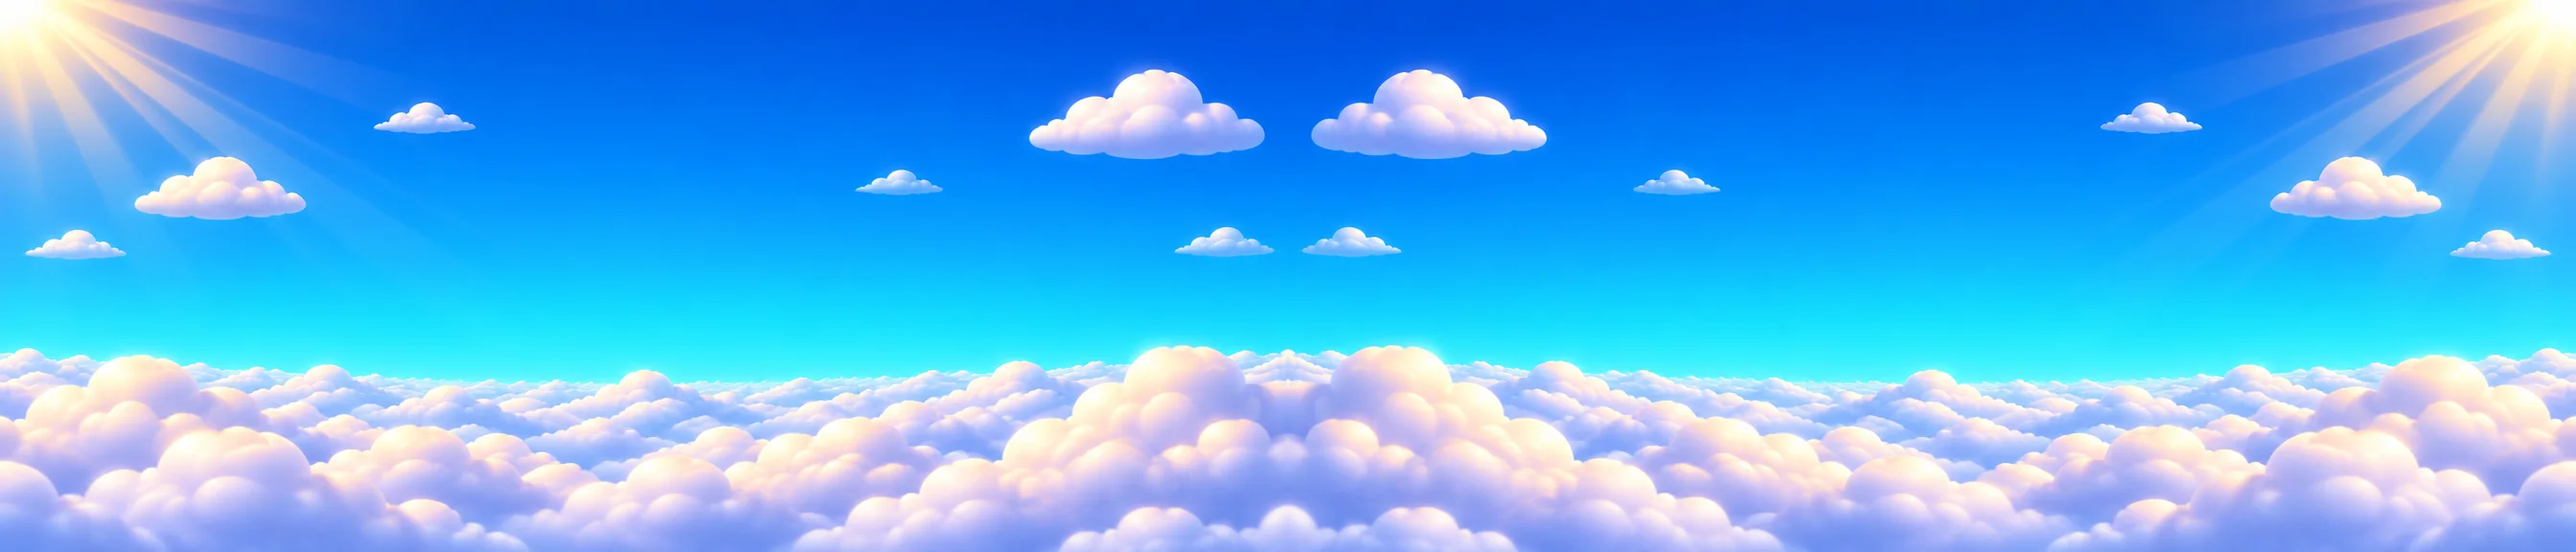
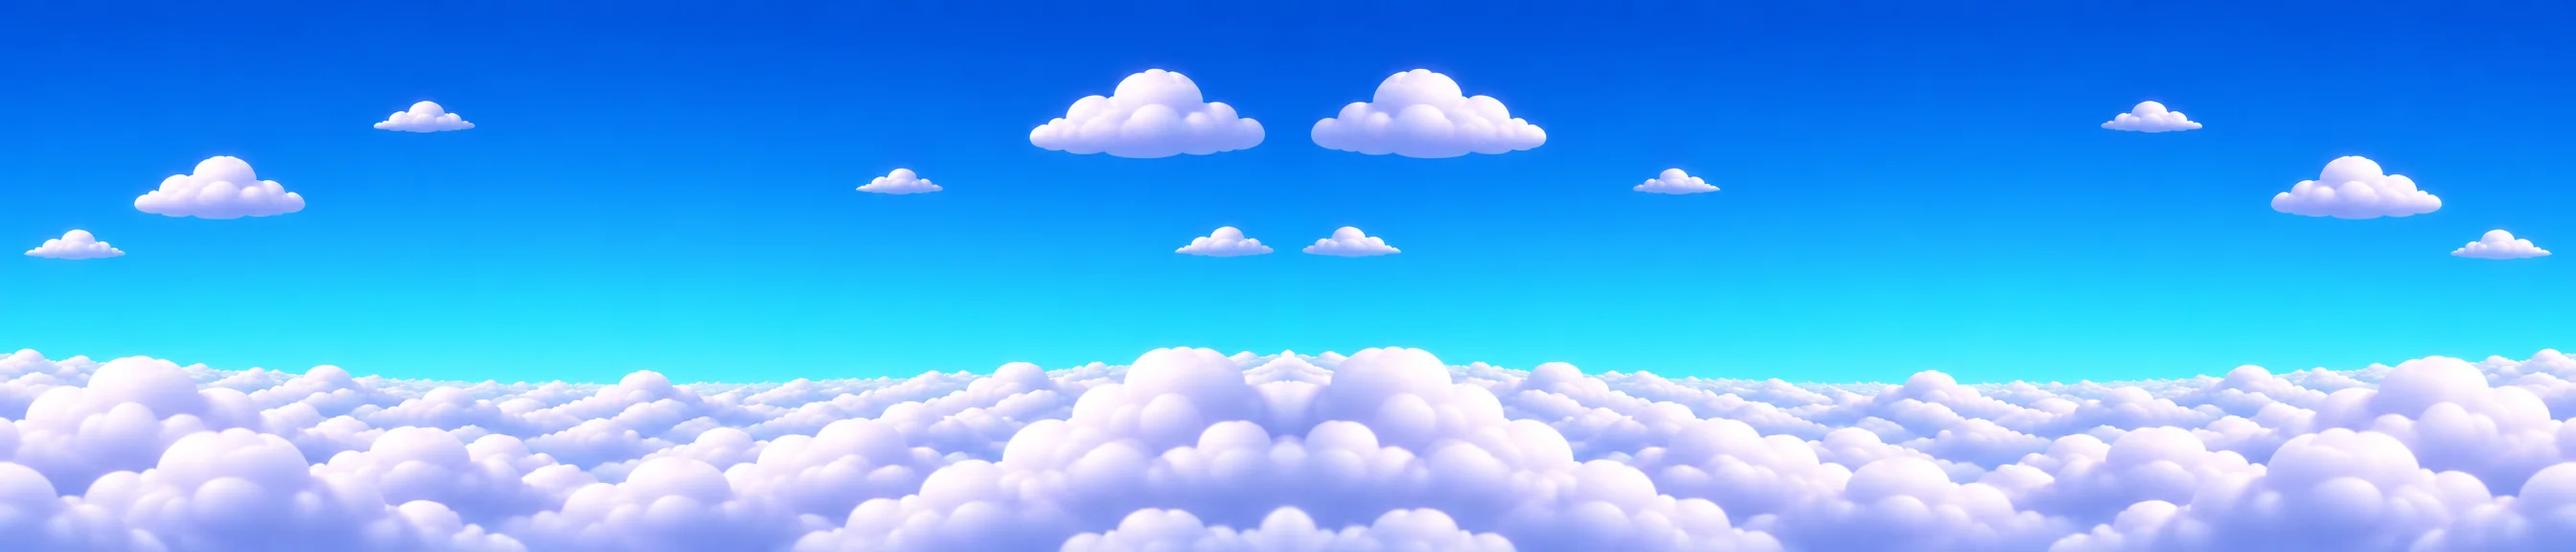
카피공항 예시판: 간판 글씨 가운데, 실내 밖으로 판넬 제거, 탑승권 구매 확인, 4초 끊김 없는 활주·부드러운 이륙, 햇빛 없는 하늘·끊김 없는 구름
Claude-Session: https://claude.ai/code/session_015t7mweLLBzEFYGgsGmysr6

diff --git a/js/airport.js b/js/airport.js
@@ -48,7 +48,7 @@ export function openAirport(o) {
   const walker = h('img', { class: 'ap-crew in wk', src: 'img/air/att-walk.webp', alt: '카피승무원' }), wk = { x: W * 0.8, y: 0.3, tx: W * 0.5, ty: 0.5, d: -1, wait: 0 }; // 캐리어를 끌고 대기장을 오가는 승무원
   const cntT = h('b', { class: 'ap-cnt-t', style: { fontSize: Math.round(H * 0.052) + 'px' } }, '카운터');
   const outBtn = h('button', { class: 'fm-exit ap-out', style: { left: W * 0.338 + 'px' }, onClick: () => goOut() }, '← 밖으로');
-  const inWorld = h('div', { class: 'fm-world ap-world in', hidden: true, style: { width: W + 'px', height: H + 'px', backgroundImage: 'url(img/air/in.webp)' } }, h('div', { class: 'ap-window' }, inPlane, h('img', { class: 'ap-mull', src: 'img/air/mullion.webp', alt: '' })), boardEl, counter, inAtt, h('img', { class: 'ap-desk', src: 'img/air/desk.webp?v=3', alt: '' }), inPilot, walker, cntT, outBtn);
+  const inWorld = h('div', { class: 'fm-world ap-world in', hidden: true, style: { width: W + 'px', height: H + 'px', backgroundImage: 'url(img/air/in.webp)' } }, h('div', { class: 'ap-window' }, inPlane, h('img', { class: 'ap-mull', src: 'img/air/mullion.webp', alt: '' })), boardEl, counter, inAtt, h('img', { class: 'ap-desk', src: 'img/air/desk.webp?v=3', alt: '' }), inPilot, walker, cntT);
   const scroller = h('div', { class: 'fm-scroll' }, outWorld, inWorld);
   const keys = new Set(), padBtn = (k, t) => { const b = h('button', { class: 'dp fm-dp' + (k === 'U' || k === 'D' ? ' ap-v' : ''), 'aria-label': { L: '왼쪽', R: '오른쪽', U: '위', D: '아래' }[k] }, t); holdBtn(b, () => keys.add(k), () => keys.delete(k)); return b; };
   const enterBtn = h('button', { class: 'fm-enter', hidden: true, onClick: () => (!inside ? goIn() : atGate() ? board() : openTicket()) });
@@ -75,13 +75,15 @@ export function openAirport(o) {
   const atGate = () => inside && me.x > W * 0.27 && me.x < W * 0.56; // 카운터 옆 출입구 앞
   function fitCrew() { const hh = 84; inPilot.style.height = hh + 'px'; walker.style.height = Math.round(hh * 1.22) + 'px'; inAtt.style.height = hh + 'px'; inAtt.style.bottom = Math.round(0.417 * H - 0.5 * hh) + 'px'; } // 카피바라(밍땅꾸리·두두)와 같은 키 + 모자. 카운터 승무원은 허리까지 책상 뒤에 · 기장은 조금 안쪽(작게)
   function openTicket() { const f = flightNow(now(), F), dep = depAt(now());
-    const row = (k, name, desc) => h('button', { class: 'ap-tk', onClick: () => buy(k, name) }, h('b', null, `🎫 ${DEST} ${name}`), h('small', null, desc), h('em', null, `${TICKET[k].toLocaleString()}코인`));
+    const row = (k, name, desc) => h('button', { class: 'ap-tk', onClick: () => confirmBuy(k, name) }, h('b', null, `🎫 ${DEST} ${name}`), h('small', null, desc), h('em', null, `${TICKET[k].toLocaleString()}코인`));
     modal({ title: `🎫 ${DEST} 탑승권`, body: [h('div', { class: 'ap-cnt' }, h('img', { src: 'img/air/att.webp', alt: '' }),
       h('p', null, `어서 오세요, 카피공항입니다! ✈`, h('br'), `${DEST}행 카피 오픈카 비행기는 10분마다 한 대씩 떠나요.`),
       h('p', { class: 'ap-cnt-s' }, canBoard(f) ? `지금 탑승할 수 있어요 · ${mmss(f.left)} 뒤 마감` : `다음 비행기 ${hhmm(dep)} 출발 · 출입구 앞에 선 뒤 10초 안에 타야 해요`),
       demo && h('p', { class: 'ap-cnt-n' }, '🧪 예시판이라 코인은 빠지지 않아요'),
       row('one', '편도', '가는 비행기 한 번'), row('round', '왕복', '갔다가 돌아오는 비행기 · 더 싸요'),
       h('p', { class: 'ap-cnt-n' }, `가진 탑승권: 편도 ${tk.one}장 · 왕복 ${tk.round}장`))], actions: [{ label: '닫기' }] }); }
+  function confirmBuy(k, name) { document.querySelectorAll('.modal-wrap').forEach(m => m.remove());
+    modal({ title: '🎫 구매 확인', body: [h('div', { class: 'ap-cnt' }, h('p', null, h('b', null, `${DEST} ${name} 탑승권`), h('br'), `${TICKET[k].toLocaleString()}코인에 살까요?`), demo && h('p', { class: 'ap-cnt-n' }, '🧪 예시판이라 코인은 빠지지 않아요'))], actions: [{ label: '취소' }, { label: '구매', primary: true, onClick: () => buy(k, name) }] }); }
   async function buy(k, name) { const cost = TICKET[k]; document.querySelectorAll('.modal-wrap').forEach(m => m.remove());
     if (!demo) { if (!(await ctx.spend(cost))) return; await ctx.store.update(TK, { [k]: (tk[k] || 0) + 1 }).catch(() => {}); } else tk = { ...tk, [k]: (tk[k] || 0) + 1 };
     sfx('coin'); toast(`🎫 ${DEST} ${name} 탑승권을 샀어요!${demo ? ' (예시판)' : ''}`, 1800); }
@@ -104,7 +106,7 @@ export function openAirport(o) {
   function ride() { const cap = h('div', { class: 'ap-ride-me', html: capy(ctx.capyOf(ctx.uid, { face: 'happy' })) });
     const rig = h('div', { class: 'ap-ride-rig' }, h('img', { class: 'ap-ride-pl', src: 'img/air/plane.webp?v=3', alt: '' }), cap, h('img', { class: 'ap-ride-hull', src: 'img/air/plane-hull.webp?v=3', alt: '' }));
     const msg = h('b'), sub = h('small'), offBtn = h('button', { class: 'btn sm', onClick: () => end() }, demo ? '내리기 (예시판)' : '내리기'), box = h('div', { class: 'ap-ride-t' }, msg, sub, demo && offBtn);
-    const sky = h('div', { class: 'ap-sky', hidden: true }, h('i', { class: 'ap-sky-bg' }), ...Array.from({ length: 7 }, (_, i) => h('img', { class: 'ap-cloud', src: `img/air/cloud${i % 3 + 1}.webp?v=2`, alt: '', style: { top: 4 + i * 13 + (i % 2) * 4 + '%', width: 26 + (i * 17) % 30 + '%', animationDuration: 1.0 + (i * 0.41) % 1.3 + 's', animationDelay: -(i * 0.47) + 's', opacity: 0.7 + (i % 3) * 0.12, zIndex: i % 3 === 0 ? 3 : 1 } })));
+    const sky = h('div', { class: 'ap-sky', hidden: true, style: { '--skyw': Math.round(H * 2688 / 576) + 'px' } }, h('i', { class: 'ap-sky-bg' }), ...Array.from({ length: 7 }, (_, i) => h('img', { class: 'ap-cloud', src: `img/air/cloud${i % 3 + 1}.webp?v=2`, alt: '', style: { top: 4 + i * 13 + (i % 2) * 4 + '%', width: 26 + (i * 17) % 30 + '%', animationDuration: 1.6 + (i * 0.41) % 1.5 + 's', animationDelay: -(i * 0.47) + 's', opacity: 0.7 + (i % 3) * 0.12, zIndex: i % 3 === 0 ? 3 : 1 } })));
     // 1) 바깥 풍경 그대로: 활주로를 달리며 화면이 따라간다(1.5초 뒤 돛단배 · 다시 1.5초 뒤 등대) → 등대 앞에서 떠오른다
     const layer = h('div', { class: 'ap-ride-w', style: { width: W + 'px', height: H + 'px' } }, h('img', { class: 'ap-boat', src: 'img/air/boat.webp?v=2', alt: '' }), rig, h('img', { class: 'ap-front', src: 'img/air/front.webp?v=4', alt: '' }));
     const el = h('div', { class: 'ap-ride', style: { height: H + 'px' } }, layer, sky, box); let timer = 0, raf2 = 0, t0 = performance.now(); const FLY = 180000;
@@ -112,11 +114,11 @@ export function openAirport(o) {
     msg.textContent = `✈ ${DEST}행 출발!`; sub.textContent = '활주로를 달려요…'; scene.append(el); sfx('pop');
     const vw = el.clientWidth || 360, c0 = W * 0.52, c1 = W * 0.675, c2 = Math.min(W * 0.87, W - vw / 2), RY = H * 0.585, rw = W * 0.15; rig.style.width = rw + 'px';
     const run = now2 => { if (!el.isConnected) return; const t = (now2 - t0) / 1000; let cam, px, py = RY, rot = 0;
-      if (t < 0.5) { cam = c0; px = cam - vw * 0.12; } else if (t < 2) { const e = (t - 0.5) / 1.5; cam = c0 + (c1 - c0) * e * e * (3 - 2 * e) ** 0 * (0.4 + 0.6 * e); px = cam - vw * 0.12; }
-      else if (t < 3.5) { const e = (t - 2) / 1.5; cam = c1 + (c2 - c1) * e; px = cam - vw * 0.12; }
-      else { const e = Math.min(1, (t - 3.5) / 2.2), q = e * e; cam = c2; px = c2 - vw * 0.12 + vw * 1.1 * q; py = RY - H * 0.75 * q; rot = -16 * Math.min(1, e * 2); }
+      const RUN = 4, v1 = (c2 - c0) * 1.7 / RUN; // 4초 동안 끊김 없이 점점 빨라지며 달리고, 등대가 보일 즈음부터 부드럽게 떠오른다
+      if (t < RUN) { cam = c0 + (c2 - c0) * Math.pow(t / RUN, 1.7); px = cam - vw * 0.12; } else { cam = c2; px = c2 - vw * 0.12 + v1 * (t - RUN) * (1 + (t - RUN) * 0.25); }
+      { const u = Math.max(0, (t - 3.3) / 2.5), q = u * u; py = RY - H * 0.8 * q; const k = Math.min(1, u * 1.6); rot = -15 * k * k * (3 - 2 * k); }
       layer.style.transform = `translateX(${-(Math.max(vw / 2, Math.min(W - vw / 2, cam)) - vw / 2).toFixed(1)}px)`; rig.style.left = px + 'px'; rig.style.top = py + 'px'; rig.style.rotate = rot + 'deg';
-      if (t < 5.7) raf2 = requestAnimationFrame(run); else fly(); };
+      if (t < 5.8) raf2 = requestAnimationFrame(run); else fly(); };
     // 2) 하늘: 위아래로 흔들리며 구름이 빠르게 스친다(3분)
     const fly = () => { layer.remove(); rig.removeAttribute('style'); rig.classList.add('air'); el.classList.add('fly'); sky.hidden = false; sky.append(rig); const f0 = Date.now(); bgm.start('flight');
       const tick = () => { const left = FLY - (Date.now() - f0); if (left <= 0) { clearInterval(timer); msg.textContent = `🛬 ${DEST} 공항이 보여요!`; sub.textContent = `${DEST} 공항은 지금 공사 중이에요 🚧 · 곧 내릴 수 있어요`; if (!offBtn.isConnected) box.append(offBtn); offBtn.textContent = '카피공항으로 돌아가기'; return; }

diff --git a/css/app.css b/css/app.css
@@ -3136,7 +3136,7 @@ img.kb-sic { width: 30px; height: 30px; object-fit: contain; display: block; mar
 .ap-term { position: absolute; bottom: 31%; z-index: 2; padding: 0; border: 0; background: none; cursor: pointer; aspect-ratio: 900 / 682; container-type: inline-size; }
 .ap-term img { width: 100%; height: 100%; display: block; filter: drop-shadow(0 6px 6px rgba(0,0,0,.18)); }
 
-.ap-term-t { position: absolute; left: 19%; right: 25%; top: 11%; height: 17%; display: flex; align-items: center; justify-content: center; font: 900 9cqw/1 var(--head); color: #fff; letter-spacing: 1px; text-shadow: 0 0 6px rgba(120, 200, 255, .9), 0 2px 0 #0D2A5C; } /* 현대식 남색 간판 가운데 */
+.ap-term-t { position: absolute; left: 19.7%; right: 25.2%; top: 12.2%; height: 14.9%; padding-left: 0; text-indent: 1px; display: flex; align-items: center; justify-content: center; font: 900 9cqw/1 var(--head); color: #fff; letter-spacing: 1px; text-shadow: 0 0 6px rgba(120, 200, 255, .9), 0 2px 0 #0D2A5C; } /* 현대식 남색 간판 가운데 */
 .ap-crew { position: absolute; bottom: 9%; height: 31%; transform: translateX(-50%); z-index: 3; pointer-events: none; animation: apBob 2.6s ease-in-out infinite; }
 .ap-crew + .ap-crew { animation-delay: -1.3s; }
 .ap-crew.in { bottom: 10%; height: 30%; }
@@ -3194,9 +3194,9 @@ img.kb-sic { width: 30px; height: 30px; object-fit: contain; display: block; mar
 .ap-ride-pl, .ap-ride-hull { display: block; width: 100%; transform: scaleX(-1); } .ap-ride-hull { position: absolute; left: 0; top: 0; }
 .ap-ride-me { position: absolute; left: 47.5%; top: -3%; width: 27%; transform: translateX(-50%); } .ap-ride-me svg { width: 100%; display: block; transform: scaleX(-1); }
 .ap-sky { position: absolute; inset: 0; overflow: hidden; } .ap-sky[hidden] { display: none; }
-.ap-sky-bg { position: absolute; inset: 0; background: url(../img/air/sky.webp) 0 50% / auto 100% repeat-x; animation: apSky 9s linear infinite; } @keyframes apSky { to { background-position-x: calc(-1 * var(--skyw, 2000px)); } }
-.ap-cloud { position: absolute; left: 0; height: auto; animation: apCloud 1.4s linear infinite; pointer-events: none; }
-@keyframes apCloud { from { transform: translateX(110vw); } to { transform: translateX(-60vw); } }
+.ap-sky-bg { position: absolute; left: 0; top: 0; height: 100%; width: calc(var(--skyw, 2000px) * 2); background: url(../img/air/sky.webp?v=2) 0 0 / var(--skyw, 2000px) 100% repeat-x; animation: apSky 14s linear infinite; will-change: transform; } @keyframes apSky { to { transform: translate3d(calc(-1 * var(--skyw, 2000px)), 0, 0); } }
+.ap-cloud { position: absolute; left: 0; height: auto; animation: apCloud 1.4s linear infinite; pointer-events: none; will-change: transform; }
+@keyframes apCloud { from { transform: translate3d(105vw, 0, 0); } to { transform: translate3d(-75vw, 0, 0); } }
 .ap-ride-t { position: absolute; left: 10px; right: 10px; top: 6px; flex-direction: row !important; justify-content: center; gap: 10px !important; z-index: 5; padding: 6px 12px; border-radius: 16px; background: rgba(255, 250, 240, .94); border: 2px solid #9CC6EE; text-align: center; display: flex; flex-direction: column; gap: 6px; align-items: center; }
 .ap-ride-t b { font: 900 16px/1.2 var(--head); color: #2F6FA8; } .ap-ride-t small { font-size: 12px; color: #6a7f95; }
 
